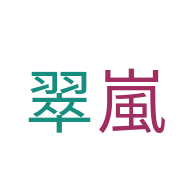
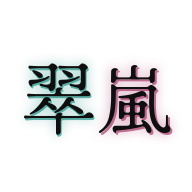
second take on the app

Changed region(s): [[0.5, 0.3125, 0.9062, 0.7188], [0.125, 0.3125, 0.5, 0.7188]]

diff --git a/index.html b/index.html
@@ -3,12 +3,16 @@
 <meta name="viewport" content="width=device-width,initial-scale=1,viewport-fit=cover">
 <meta name="theme-color" content="#ffffff">
 <link rel="manifest" href="manifest.json"><link rel="icon" href="icon-192.png">
+<link rel="preconnect" href="https://fonts.googleapis.com"><link rel="preconnect" href="https://fonts.gstatic.com" crossorigin>
+<link href="https://fonts.googleapis.com/css2?family=Klee+One:wght@400;600&family=Hina+Mincho&display=swap" rel="stylesheet">
 <title>Vocab</title>
 <style>
 :root{--bg:#fff;--fg:#000;--mut:#777;--card:#fff;--ac:#000;--bd:#ddd;--g:#178d7f;--r:#a02e60}
 @media(prefers-color-scheme:dark){:root{--bg:#000;--fg:#fff;--ac:#fff;--mut:#999;--card:#111;--bd:#333}}
 *{box-sizing:border-box;-webkit-tap-highlight-color:transparent}
-html,body{margin:0;height:100%;background:var(--bg);color:var(--fg);font-family:system-ui,"Noto Sans JP",sans-serif}
+html,body{margin:0;height:100%;background:var(--bg);color:var(--fg);font-family:system-ui,sans-serif}
+/* handwriting-style Japanese: change "Klee One" to "Yuji Syuku" (brush) or "Zen Kurenaido" (handwriting) to try others */
+#sw,#sr,.item span,input,textarea{font-family:"Klee One","Hiragino Kaku Gothic ProN","Noto Sans JP",system-ui,sans-serif}
 .screen{display:none;height:100%;padding:16px;flex-direction:column;gap:12px;overflow-y:auto}
 .screen.on{display:flex}
 button,input,textarea{font:inherit;color:inherit}
@@ -16,10 +20,13 @@ button,input,textarea{font:inherit;color:inherit}
 .big.p{background:var(--ac);border-color:var(--ac);color:var(--bg)}
 .btn{padding:12px 16px;border:1px solid var(--bd);background:var(--card);border-radius:10px}
 .btn.p{background:var(--ac);border-color:var(--ac);color:var(--bg)}
-#title{text-align:center;font-size:3.4rem;letter-spacing:.1em;padding:8px 0}
+#title{text-align:center;font-size:3.6rem;letter-spacing:.08em;padding:8px 0;font-family:"Hina Mincho","Klee One",serif}
+#title span{color:var(--fg)}
+#title .g{text-shadow:0 0 12px var(--g),1px 1px 0 var(--g)}#title .r{text-shadow:0 0 12px var(--r),1px 1px 0 var(--r)}
+#flash span{position:absolute;left:50%;top:50%;transform:translate(-50%,-50%);font-size:40vmin;font-family:"Hina Mincho","Klee One",serif;opacity:.5}
 #flash{position:fixed;inset:0;pointer-events:none;opacity:0;z-index:5}
-#flash.go{animation:fl .5s ease-out}
-@keyframes fl{0%{opacity:0}25%{opacity:1}100%{opacity:0}}
+#flash.go{animation:fl 1s ease-out}
+@keyframes fl{0%{opacity:0}20%{opacity:1}100%{opacity:0}}
 .back{align-self:flex-start;border:0;background:none;color:var(--mut);font-size:1rem;padding:4px 0}
 input,textarea{width:100%;padding:12px;border:1px solid var(--bd);border-radius:10px;background:var(--card);font-size:1.1rem}
 label{font-size:.8rem;color:var(--mut)}
@@ -33,7 +40,7 @@ label{font-size:.8rem;color:var(--mut)}
 </style></head><body>
 
 <div id="home" class="screen on">
-  <div id="title"><span style="color:var(--g)">翠</span><span style="color:var(--r)">嵐</span></div>
+  <div id="title"><span class="g">翠</span><span class="r">嵐</span></div>
   <button class="big" onclick="openAdd()">Add</button>
   <button class="big" onclick="openReview()">Review</button>
   <button class="big p" onclick="openStudy()">Study</button>
@@ -71,7 +78,7 @@ label{font-size:.8rem;color:var(--mut)}
 
 <script>
 const SEED=`調整; 調子; 凸凹; 過ぎる; 頬, 頰; 痩せる, 瘠せる; さすが, 流石, 遉, 有繋; 候補; ほら, ほれ; 決して; 加える; なにやら, 何やら; おまけに, お負けに, 御負けに; 継ぐ, 嗣ぐ, 続ぐ, 襲ぐ; 顎, 頤, 腭; 特徴; サンゴ礁, 珊瑚礁; 沼; 雰囲気; 混入; 乱れ, 紊れ; 初対面; 賑やか; 押さえる, 押える; 畳; 狸の金玉八畳敷き, 狸の睾丸八畳敷き; 見渡す, 見わたす; 家庭; 玄関; ベニヤ, ベニア; しーん, しいん; 了解, 諒解, 領解, 領会; 開始; 終了; 呼吸; のち, 後; 揺れる; 設置; 点滅; 蛍光灯; 急速; 当たり前, 当り前; 暮れる, 昏れる, 眩れる, 暗れる; 異なる, 異る; 興味深い, 興味ぶかい; 帰る, 還る; 運動; 納得; 芸人; 軍団; 一晩中; 一晩, ひと晩; 拝見, 拜見; 拝む; のみ; 肉親; 高齢; 大家, 大屋; 実は; 実に; 実; 混じる, 交じる, 雑じる; いつまでも, 何時までも; わびしい, 侘しい, 侘びしい; それにしても; ずれる, ズレる; ずれ; 持ち主, 持主; 異; くぐる, 潜る; 超過; 響き, 響; 響く; 影響; だろう, だろ; 裕福; 多く; 住宅; 質素; 質; 向け; 一目, ひと目; 内心; 務まる, 勤まる; 視線; 添える, 副える; 移る, 遷る; 扱う; たくましい, 逞しい; 束ねる; 束, 把; ばら, 薔薇; 初老; がっしり; 渋い; 釣り, 釣; お釣り, お釣; 釣る; ひよどり, 鵯, ひよ鳥; 店頭; 思い切り, 思いきり; 思い切る; とっさに, 咄嗟に; かかる, 罹る; 派手; 夢想; 通じる; 現在, 見在; あふれる, 溢れる; 泉; 飴; 空間; 歪む; 一歩, １歩; 保存; ありふれた, 有り触れた; 語句; 句読点; 句; 文句; 俳句; 俳人; まず, 先ず; 許し, 赦し; これで; かつて, 嘗て, 曽て, 都て; 表す, 現す, 表わす, 現わす, 顕す; 暮らす, 暮す; 遮断; 呆然, 茫然, 惘然; 全く; 余る; 早速; 改めて; 痛む, 傷む; 胸; 一体; 改める; 日々, 日日; 天邪鬼, 天の邪鬼, 天ん邪鬼, 天之邪鬼, 天邪久; 求める; として; 結局; といっても, と言っても; 抱える; いくら, 幾ら; にらむ, 睨む; 谷間, 谷あい; 性に合う; 在宅; 収入; すでに, 既に, 已に; 相手; 市民; 生計; 一室; 退職; ほど, 程; 同僚; 編む; 編集, 編修, 編輯; 出版, 出板`;
-const PROXY=''; // optional: a CORS proxy prefix if direct Jisho calls get blocked
+const WORKER_URL='https://suiran-jisho.ihavehands.workers.dev'; // paste your Cloudflare Worker URL here, e.g. https://suiran-jisho.yourname.workers.dev
 const K='vocab1',$=id=>document.getElementById(id);
 const mk=(w,alts)=>({id:Date.now()+Math.random(),w,alts:alts||'',r:'',d:'',tried:false,right:0,wrong:0,streak:0,due:0});
 let cards=JSON.parse(localStorage.getItem(K)||'null');
@@ -83,8 +90,8 @@ const pct=c=>{const n=c.right+c.wrong;return n?c.right/n*100:-1};
 
 // ---- Jisho ----
 async function jisho(forms){
-  const u='https://jisho.org/api/v1/search/words?keyword='+encodeURIComponent(forms[0]);
-  const res=await fetch(PROXY?PROXY+encodeURIComponent(u):u);
+  const k=encodeURIComponent(forms[0]);
+  const res=await fetch(WORKER_URL?WORKER_URL+'?keyword='+k:'https://jisho.org/api/v1/search/words?keyword='+k);
   if(!res.ok)throw new Error('http');
   const j=await res.json();
   const m=x=>forms.includes(x.word)||forms.includes(x.reading);
@@ -186,7 +193,7 @@ function answer(ok){
   if(ok){cur.right++;cur.streak++}else{cur.wrong++;cur.streak=0}
   cur.due=Date.now()+(cur.streak===0?5*60e3:IV[Math.min(cur.streak-1,7)]*864e5);
   last=cur.id;save();
-  const f=$('flash');f.style.background='radial-gradient(circle at 50% 50%,'+(ok?'rgba(23,141,127,.55)':'rgba(160,46,96,.55)')+' 0%,'+(ok?'rgba(23,141,127,.25)':'rgba(160,46,96,.25)')+' 55%,transparent 100%)';f.classList.remove('go');void f.offsetWidth;f.classList.add('go');
+  const f=$('flash');f.innerHTML='<span style="color:'+(ok?'#178d7f':'#a02e60')+'">'+(ok?'翠':'嵐')+'</span>';f.style.background='radial-gradient(circle at 50% 50%,'+(ok?'rgba(23,141,127,.55)':'rgba(160,46,96,.55)')+' 0%,'+(ok?'rgba(23,141,127,.25)':'rgba(160,46,96,.25)')+' 55%,transparent 100%)';f.classList.remove('go');void f.offsetWidth;f.classList.add('go');
   const c=$('card');c.style.transition='transform .15s,opacity .15s';c.style.transform='translateX('+(ok?'-':'')+'100vw)';c.style.opacity=0;
   setTimeout(()=>{c.style.transition='none';c.style.transform='';c.style.opacity=1;next()},160);
 }
@@ -203,5 +210,6 @@ function editCur(){if(cur)editCard(cur,'study')}
   });
   c.addEventListener('pointercancel',()=>{x0=null;c.style.transform=''});
 })();
+if(navigator.storage&&navigator.storage.persist)navigator.storage.persist();
 if('serviceWorker' in navigator)navigator.serviceWorker.register('sw.js');
 </script></body></html>

diff --git a/sw.js b/sw.js
@@ -1,7 +1,11 @@
-const C='vocab-v2',F=['./','./index.html','./manifest.json','./icon-192.png','./icon-512.png'];
+const C='vocab-v4',F=['./','./index.html','./manifest.json','./icon-192.png','./icon-512.png'];
 self.addEventListener('install',e=>{e.waitUntil(caches.open(C).then(c=>c.addAll(F)));self.skipWaiting()});
 self.addEventListener('activate',e=>{e.waitUntil(caches.keys().then(k=>Promise.all(k.filter(x=>x!==C).map(x=>caches.delete(x)))))});
 self.addEventListener('fetch',e=>{
-  if(new URL(e.request.url).origin!==location.origin)return;
-  e.respondWith(fetch(e.request).then(r=>{const c=r.clone();caches.open(C).then(x=>x.put(e.request,c));return r}).catch(()=>caches.match(e.request)));
+  const u=new URL(e.request.url);
+  if(u.origin===location.origin){
+    e.respondWith(fetch(e.request).then(r=>{const c=r.clone();caches.open(C).then(x=>x.put(e.request,c));return r}).catch(()=>caches.match(e.request)));
+  }else if(u.hostname==='fonts.googleapis.com'||u.hostname==='fonts.gstatic.com'){
+    e.respondWith(caches.match(e.request).then(m=>m||fetch(e.request).then(r=>{const c=r.clone();caches.open(C).then(x=>x.put(e.request,c));return r})));
+  }
 });
